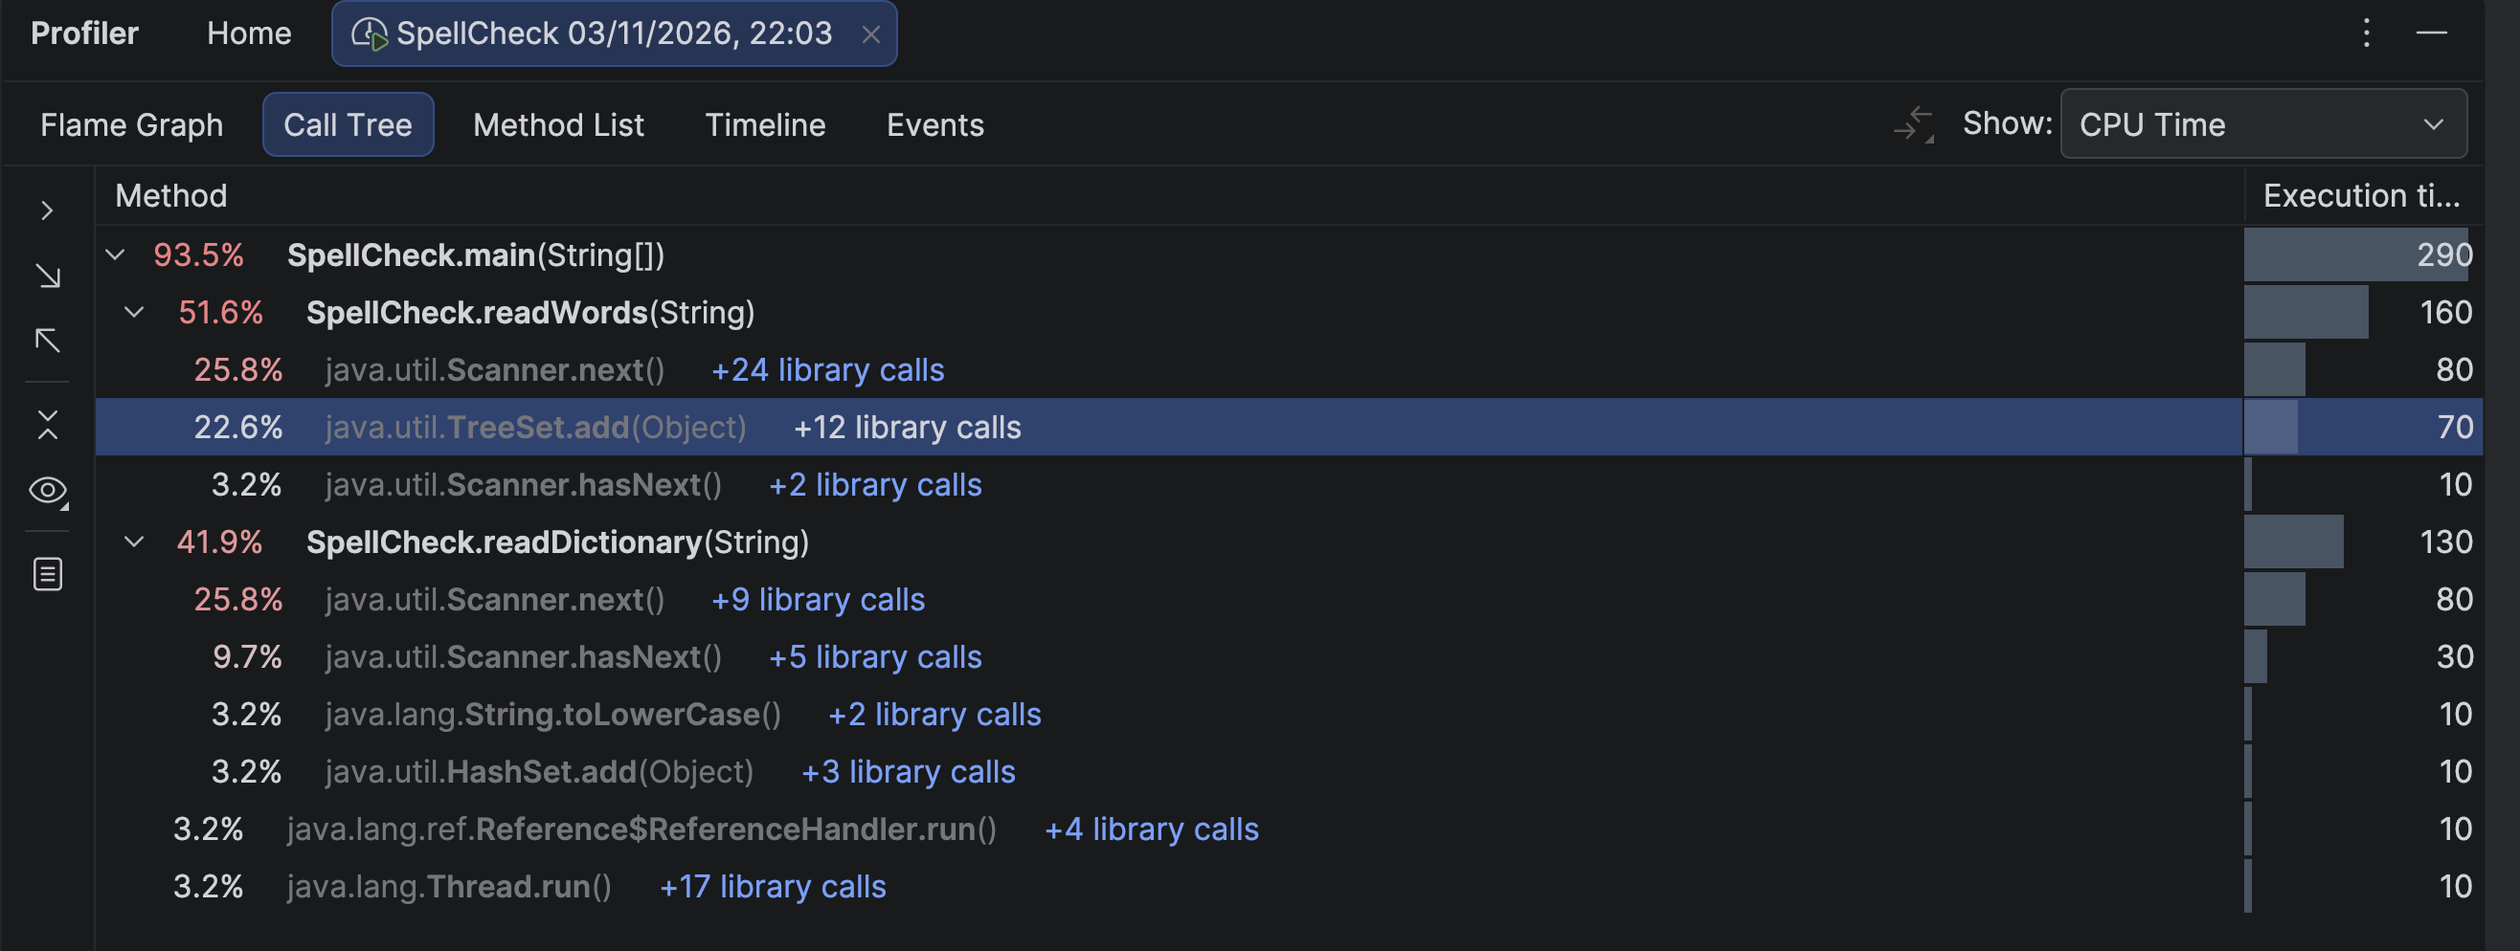
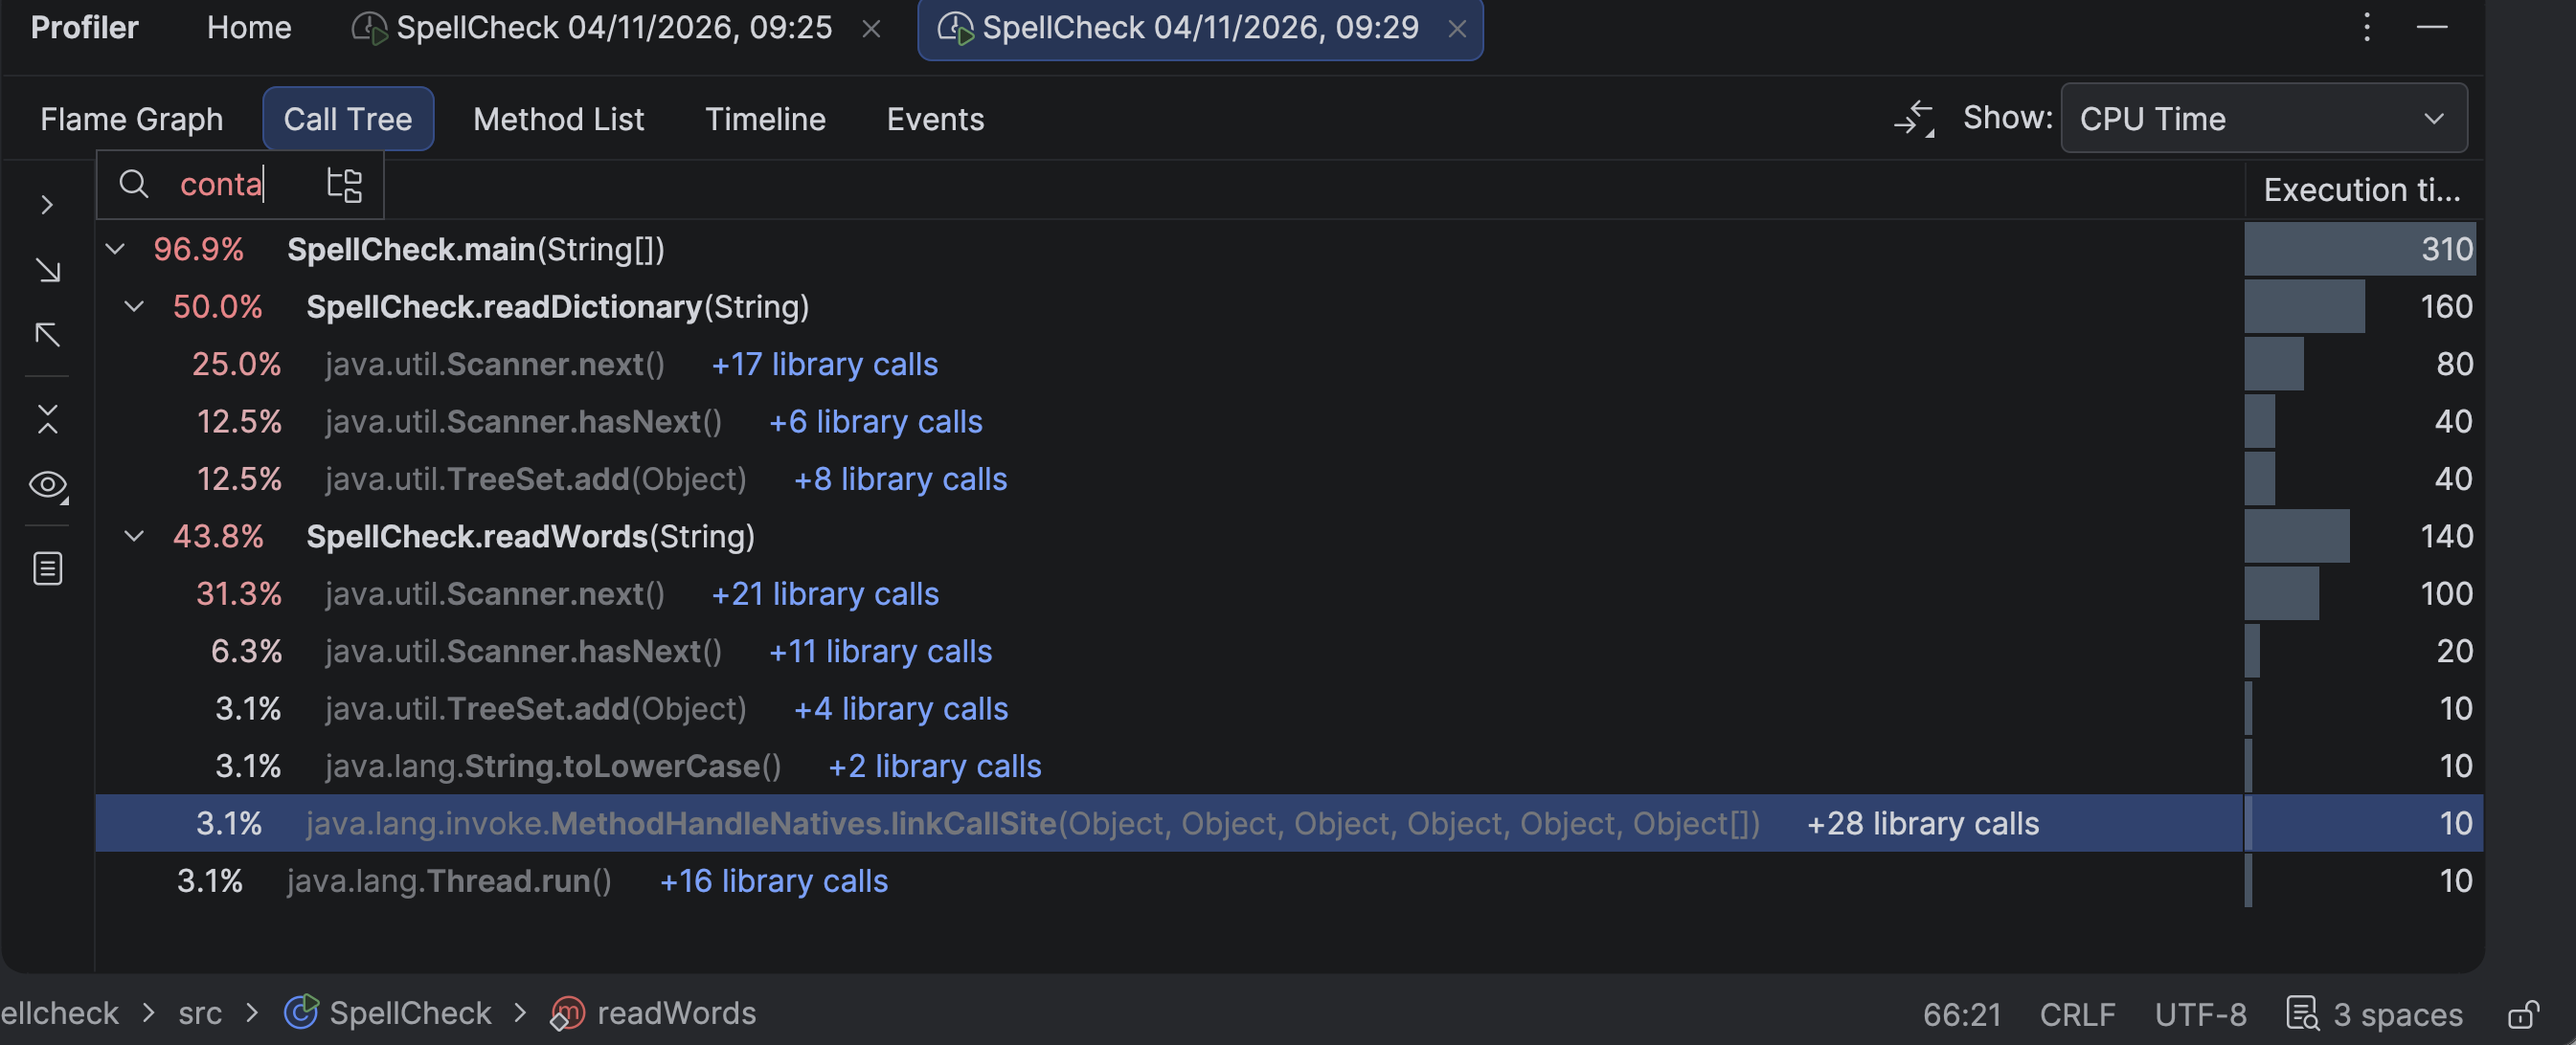
Last commit

diff --git a/src/SpellCheck.java b/src/SpellCheck.java
@@ -25,7 +25,8 @@ public class SpellCheck {
 
       Collection<String> dictionaryWords = readDictionary("words.txt");
       System.out.println("Dictionary size (n): " + dictionaryWords.size());
-      Set<String> documentWords = readWords("The_Headless_Horseman.txt"); // file to be spell-checked
+      Collection<String> documentWords = readWords("The_Headless_Horseman.txt"); // file to be spell-checked
+      System.out.println("Book size (m): " + readWords("The_Headless_Horseman.txt").size());
 
       // Print all words that are in the document but not the dictionary
       int numberMisspeltWords = 0;
@@ -40,7 +41,7 @@ public class SpellCheck {
 
    private static Collection<String> readDictionary(String filename)
            throws FileNotFoundException {
-      Collection<String> words = new HashSet<String>();
+      Collection<String> words = new Stack<String>();
       Scanner in = new Scanner(new File(filename));
       // Use any characters other than a-z or A-Z as delimiters
       in.useDelimiter("[^a-zA-Z]+");
@@ -58,9 +59,9 @@ public class SpellCheck {
     * @return a set with all lowercased words in the file. Here, a
     * word is a sequence of upper- and lowercase letters.
     */
-   public static Set<String> readWords(String filename)
+   public static Collection<String> readWords(String filename)
            throws FileNotFoundException {
-      Set<String> words = new TreeSet<String>();
+      Set<String> words = new HashSet<String>();
       Scanner in = new Scanner(new File(filename));
       // Use any characters other than a-z or A-Z as delimiters
       in.useDelimiter("[^a-zA-Z]+");
